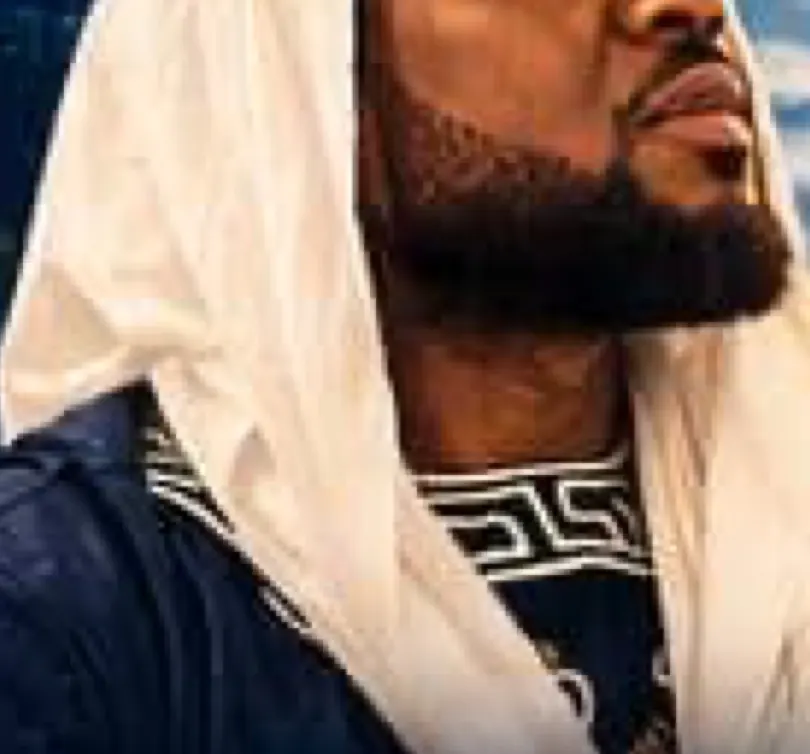
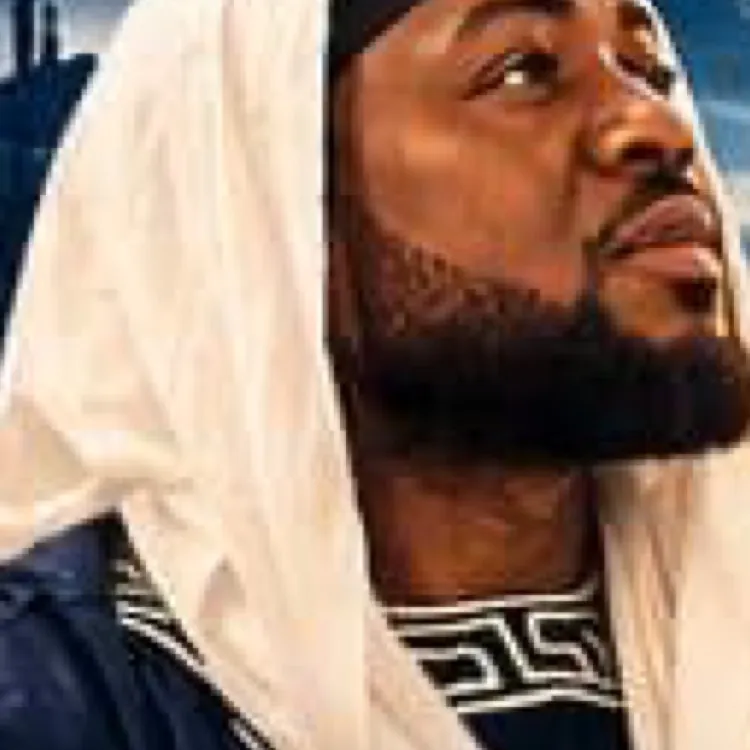
Retire le gros plan du Guide. Le visage reste une signature.
Les huit planches portent la page. L'accueil et l'en-tête ne montrent plus le visage.

diff --git a/src/routes/le-guide.tsx b/src/routes/le-guide.tsx
@@ -1,8 +1,7 @@
-import { useState } from "react";
 import { createFileRoute } from "@tanstack/react-router";
 import { Page } from "@/components/page";
 import { stations } from "@/lib/stations";
-import { SITE_URL, WHATSAPP_DISPLAY, waLink } from "@/lib/temple";
+import { SITE_URL, waLink } from "@/lib/temple";
 
 export const Route = createFileRoute("/le-guide")({
   head: () => ({
@@ -11,7 +10,7 @@ export const Route = createFileRoute("/le-guide")({
       {
         name: "description",
         content:
-          "Le visage officiel de Guide Sirius et les huit stations de sa voie : du réveil de la conscience à l'épreuve ultime.",
+          "Les huit stations de Guide Sirius, de Conscience Kongo. Le réveil, le combat, la mémoire, l'épreuve.",
       },
     ],
     links: [{ rel: "canonical", href: `${SITE_URL}/le-guide` }],
@@ -20,7 +19,6 @@ export const Route = createFileRoute("/le-guide")({
 });
 
 function Guide() {
-  const [tab, setTab] = useState<"visage" | "stations">("visage");
   const person = {
     "@context": "https://schema.org",
     "@type": "Person",
@@ -32,91 +30,39 @@ function Guide() {
   return (
     <Page
       kicker="Le Guide"
-      title="Un visage. Huit stations. Pas un spectacle."
-      lede="C'est le visage officiel de Guide Sirius. Les huit images disent le chemin qu'il tient. Elles n'ouvrent pas le seuil : la commande, elle, reste sur WhatsApp."
+      title="Il indique. Il ne raccourcit pas."
+      lede="Huit stations. On ne vient pas pour un visage. On vient pour voir comment la voie se tient."
       crumbs={[{ label: "Le Guide" }]}
     >
       <script type="application/ld+json" dangerouslySetInnerHTML={{ __html: JSON.stringify(person) }} />
-      <div className="mb-8 flex flex-col gap-3 border border-gold bg-surface p-4 sm:flex-row sm:items-center sm:justify-between">
-        <p className="text-sm text-muted">
-          Pour entrer : {WHATSAPP_DISPLAY}. Le Guide répond sous vingt-quatre heures.
-        </p>
-        <a
-          href={waLink("Bonjour Guide Sirius, je souhaite entrer dans le Temple.")}
-          className="inline-flex min-h-11 items-center justify-center bg-gold px-5 text-sm font-medium text-bg"
-        >
-          Commander via WhatsApp
+      <div className="flex items-center gap-4">
+        <img
+          src="/brand/guide-visage.webp"
+          alt="Guide Sirius."
+          className="h-16 w-16 shrink-0 border border-line object-cover object-top"
+        />
+        <p className="text-sm text-muted">Guide Sirius · Conscience Kongo</p>
+      </div>
+      <ol className="mt-14 grid gap-14">
+        {stations.map((station) => (
+          <li key={station.n} className="mx-auto w-full max-w-sm">
+            <img
+              src={station.src}
+              alt={`${station.n}. ${station.title}. Planche officielle de Guide Sirius.`}
+              className="w-full border border-line"
+            />
+            <p className="mt-4 font-display text-sm text-gold">{station.n}</p>
+            <h2 className="mt-1 font-display text-xl">{station.title}</h2>
+            <p className="mt-2 text-sm text-muted">{station.line}</p>
+          </li>
+        ))}
+      </ol>
+      <p className="mt-16 text-sm text-muted">
+        Le seuil se commande à part.{" "}
+        <a href={waLink("Bonjour Guide Sirius, je souhaite entrer dans le Temple.")} className="text-gold">
+          Écrire au Guide
         </a>
-      </div>
-      <div role="tablist" aria-label="Le Guide" className="flex gap-2">
-        <button
-          type="button"
-          role="tab"
-          aria-selected={tab === "visage"}
-          className={
-            tab === "visage"
-              ? "min-h-11 border border-gold bg-gold px-4 text-sm font-medium text-bg"
-              : "min-h-11 border border-line px-4 text-sm text-muted"
-          }
-          onClick={() => setTab("visage")}
-        >
-          Le visage
-        </button>
-        <button
-          type="button"
-          role="tab"
-          aria-selected={tab === "stations"}
-          className={
-            tab === "stations"
-              ? "min-h-11 border border-gold bg-gold px-4 text-sm font-medium text-bg"
-              : "min-h-11 border border-line px-4 text-sm text-muted"
-          }
-          onClick={() => setTab("stations")}
-        >
-          Les huit stations
-        </button>
-      </div>
-
-      {tab === "visage" ? (
-        <div className="mt-8 grid gap-8 lg:grid-cols-[0.8fr_1.1fr]" role="tabpanel">
-          <img
-            src="/brand/guide-visage.webp"
-            alt="Portrait officiel de Guide Sirius, voile blanc, regard levé."
-            className="w-full border border-line object-cover"
-          />
-          <div className="grid content-start gap-4 text-muted">
-            <p>
-              Guide Sirius veille sur le seuil de Conscience Kongo. Il indique. Il ne raccourcit pas le chemin, et il ne promet pas de te changer en une veille.
-            </p>
-            <p>
-              Sa légitimité n'est pas un titre affiché. Elle se reconnaît à ceci : après le travail, on ment moins. On négocie moins avec soi.
-            </p>
-            <p>
-              Les huit stations à côté racontent cette tenue : le réveil, le combat intérieur, les chaînes, les faux guides, le pouvoir, la mémoire, le collectif, l'épreuve.
-            </p>
-            <button type="button" className="min-h-11 justify-self-start text-left text-gold" onClick={() => setTab("stations")}>
-              Voir les huit stations
-            </button>
-          </div>
-        </div>
-      ) : (
-        <ol className="mt-8 grid gap-10" role="tabpanel">
-          {stations.map((station) => (
-            <li key={station.n} className="grid gap-4 border border-line lg:grid-cols-[16rem_1fr] lg:items-start">
-              <img
-                src={station.src}
-                alt={`${station.n}. ${station.title}. Planche officielle de Guide Sirius.`}
-                className="w-full"
-              />
-              <div className="p-5">
-                <p className="font-display text-gold">{station.n}</p>
-                <h2 className="mt-1 font-display text-2xl">{station.title}</h2>
-                <p className="mt-3 max-w-md text-muted">{station.line}</p>
-              </div>
-            </li>
-          ))}
-        </ol>
-      )}
+      </p>
     </Page>
   );
 }

diff --git a/src/components/boutique.tsx b/src/components/boutique.tsx
@@ -35,25 +35,6 @@ export function Boutique() {
         </div>
       </section>
 
-      <section className="border-t border-line">
-        <div className="mx-auto flex max-w-6xl flex-col items-start gap-5 px-4 py-8 sm:flex-row sm:items-center">
-          <img
-            src="/brand/guide-visage.webp"
-            alt="Portrait officiel de Guide Sirius."
-            className="h-24 w-20 border border-gold object-cover object-[center_20%]"
-          />
-          <div className="max-w-xl">
-            <p className="font-display text-xs tracking-widest text-gold">Le visage du Guide</p>
-            <p className="mt-1 text-muted">
-              Huit stations, du réveil à l'épreuve. On voit qui tient la lampe. Le seuil, lui, se commande à côté.
-            </p>
-          </div>
-          <Link to="/le-guide" className="inline-flex min-h-11 items-center border border-gold px-4 text-sm text-gold sm:ml-auto">
-            Voir Guide Sirius
-          </Link>
-        </div>
-      </section>
-
       <section className="border-t border-line bg-surface">
         <div className="mx-auto grid max-w-6xl gap-4 px-4 py-14 md:grid-cols-3">
           {[

diff --git a/src/components/shell.tsx b/src/components/shell.tsx
@@ -64,18 +64,6 @@ export function Shell({ children }: { children: ReactNode }) {
               <span className="block text-xs text-muted">Conscience Kongo</span>
             </span>
           </Link>
-          <Link
-            to="/le-guide"
-            className="hidden items-center gap-2 sm:flex"
-            aria-label="Voir Guide Sirius"
-          >
-            <img
-              src="/brand/guide-visage.webp"
-              alt=""
-              className="h-11 w-11 rounded-full border border-gold object-cover object-[center_20%]"
-            />
-            <span className="hidden text-xs text-muted lg:block">Guide Sirius</span>
-          </Link>
           <div className="flex items-center gap-2">
             <a
               href={`tel:+${WHATSAPP_E164}`}
